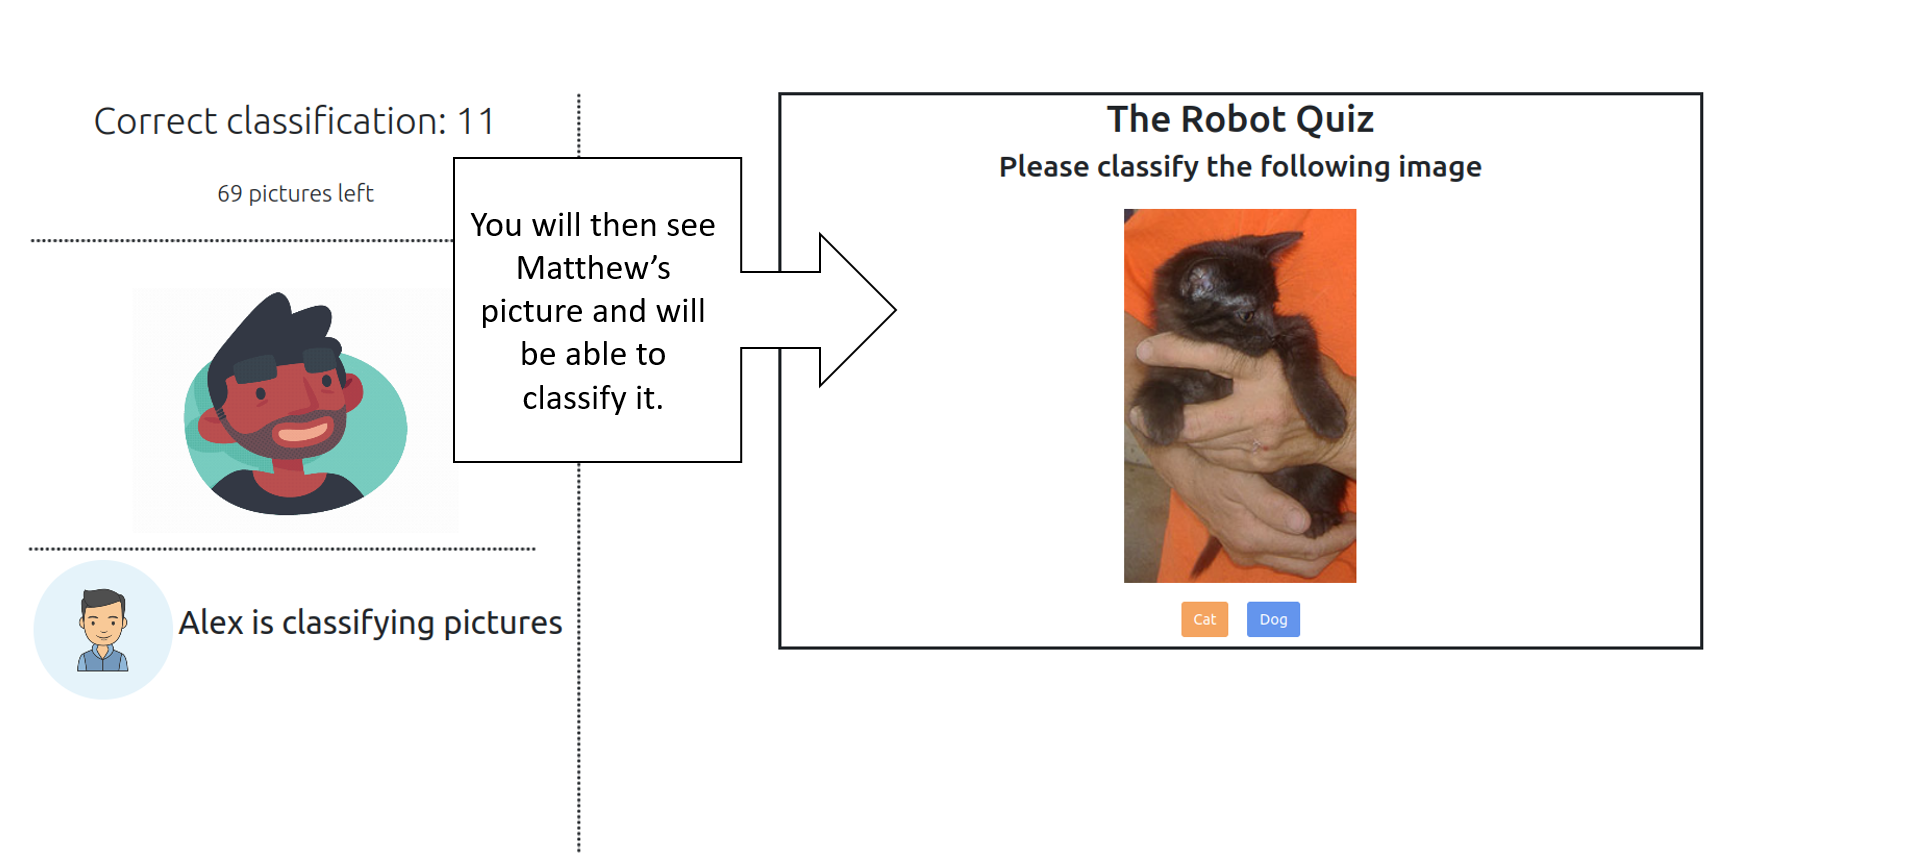
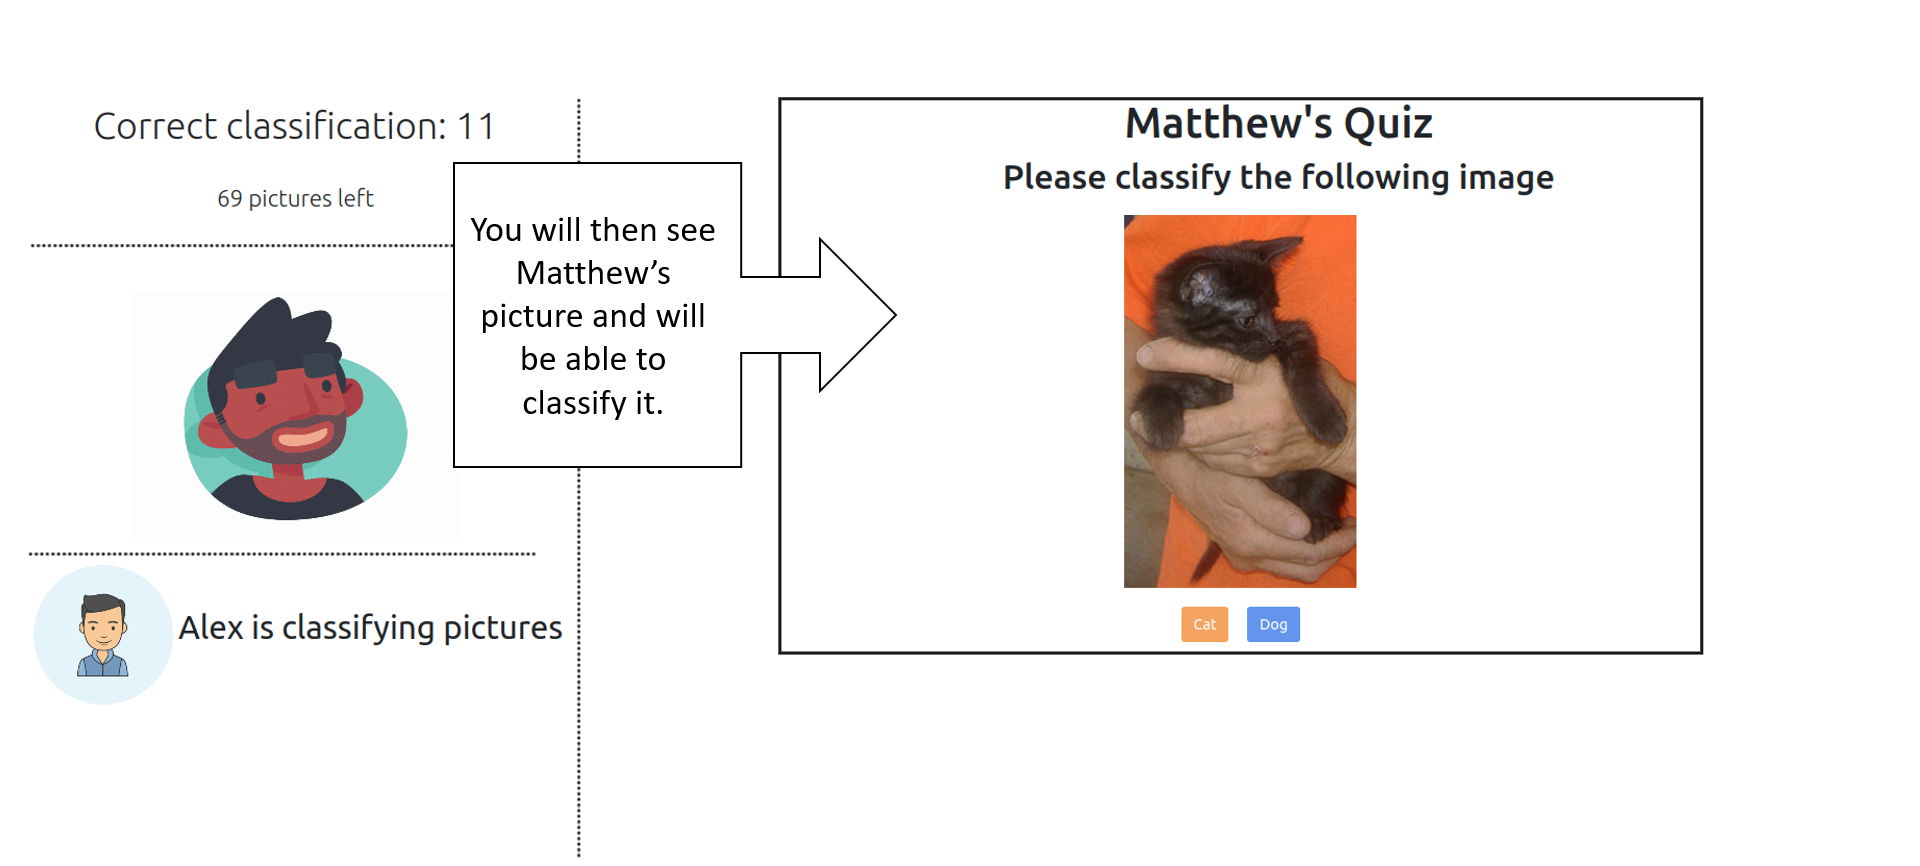
tutorial

diff --git a/src/instructions/gameInstructions.js b/src/instructions/gameInstructions.js
@@ -27,7 +27,7 @@ function GameInstructions() {
         <h5 style={{"color": "#db1111"}}>Please take good care, there will be an attention quiz later on!</h5>
         Your task is to correctly classify 80 pictures of dogs and cats. At any given stage you will receive a
           picture and you will need to press the button with the correct classification according to your best judgement.<br/>
-        To enrich our pile of annotated pictures, we also have 2 other users, Alex and Matthew, that working on the same task
+        To enrich our pile of annotated pictures, we also have 2 other users, Alex and Matthew, that are working on the same task
         in parallel (classifying a different set of pictures). Matthew is our admin user so he gets the most difficult
         images to classify. Hence, from time to time Matthew will probably have trouble correctly identifying
         if it is a dog or a cat in his picture. When this occurs, he will ask for help. Both you and Alex can help him.

diff --git a/src/game/theQuiz.js b/src/game/theQuiz.js
@@ -6,7 +6,7 @@ function TheQuiz({quizType, imgSrc, onTagButtonCat, onTagButtonDog}) {
     return(
        <div className={quizType ? "robot-quiz" : null}>
            {quizType ?
-               <h1>The Robot Quiz</h1> :
+               <h1>Matthew's Quiz</h1> :
                <></>
            }
            <h2>Please classify the following image</h2>
